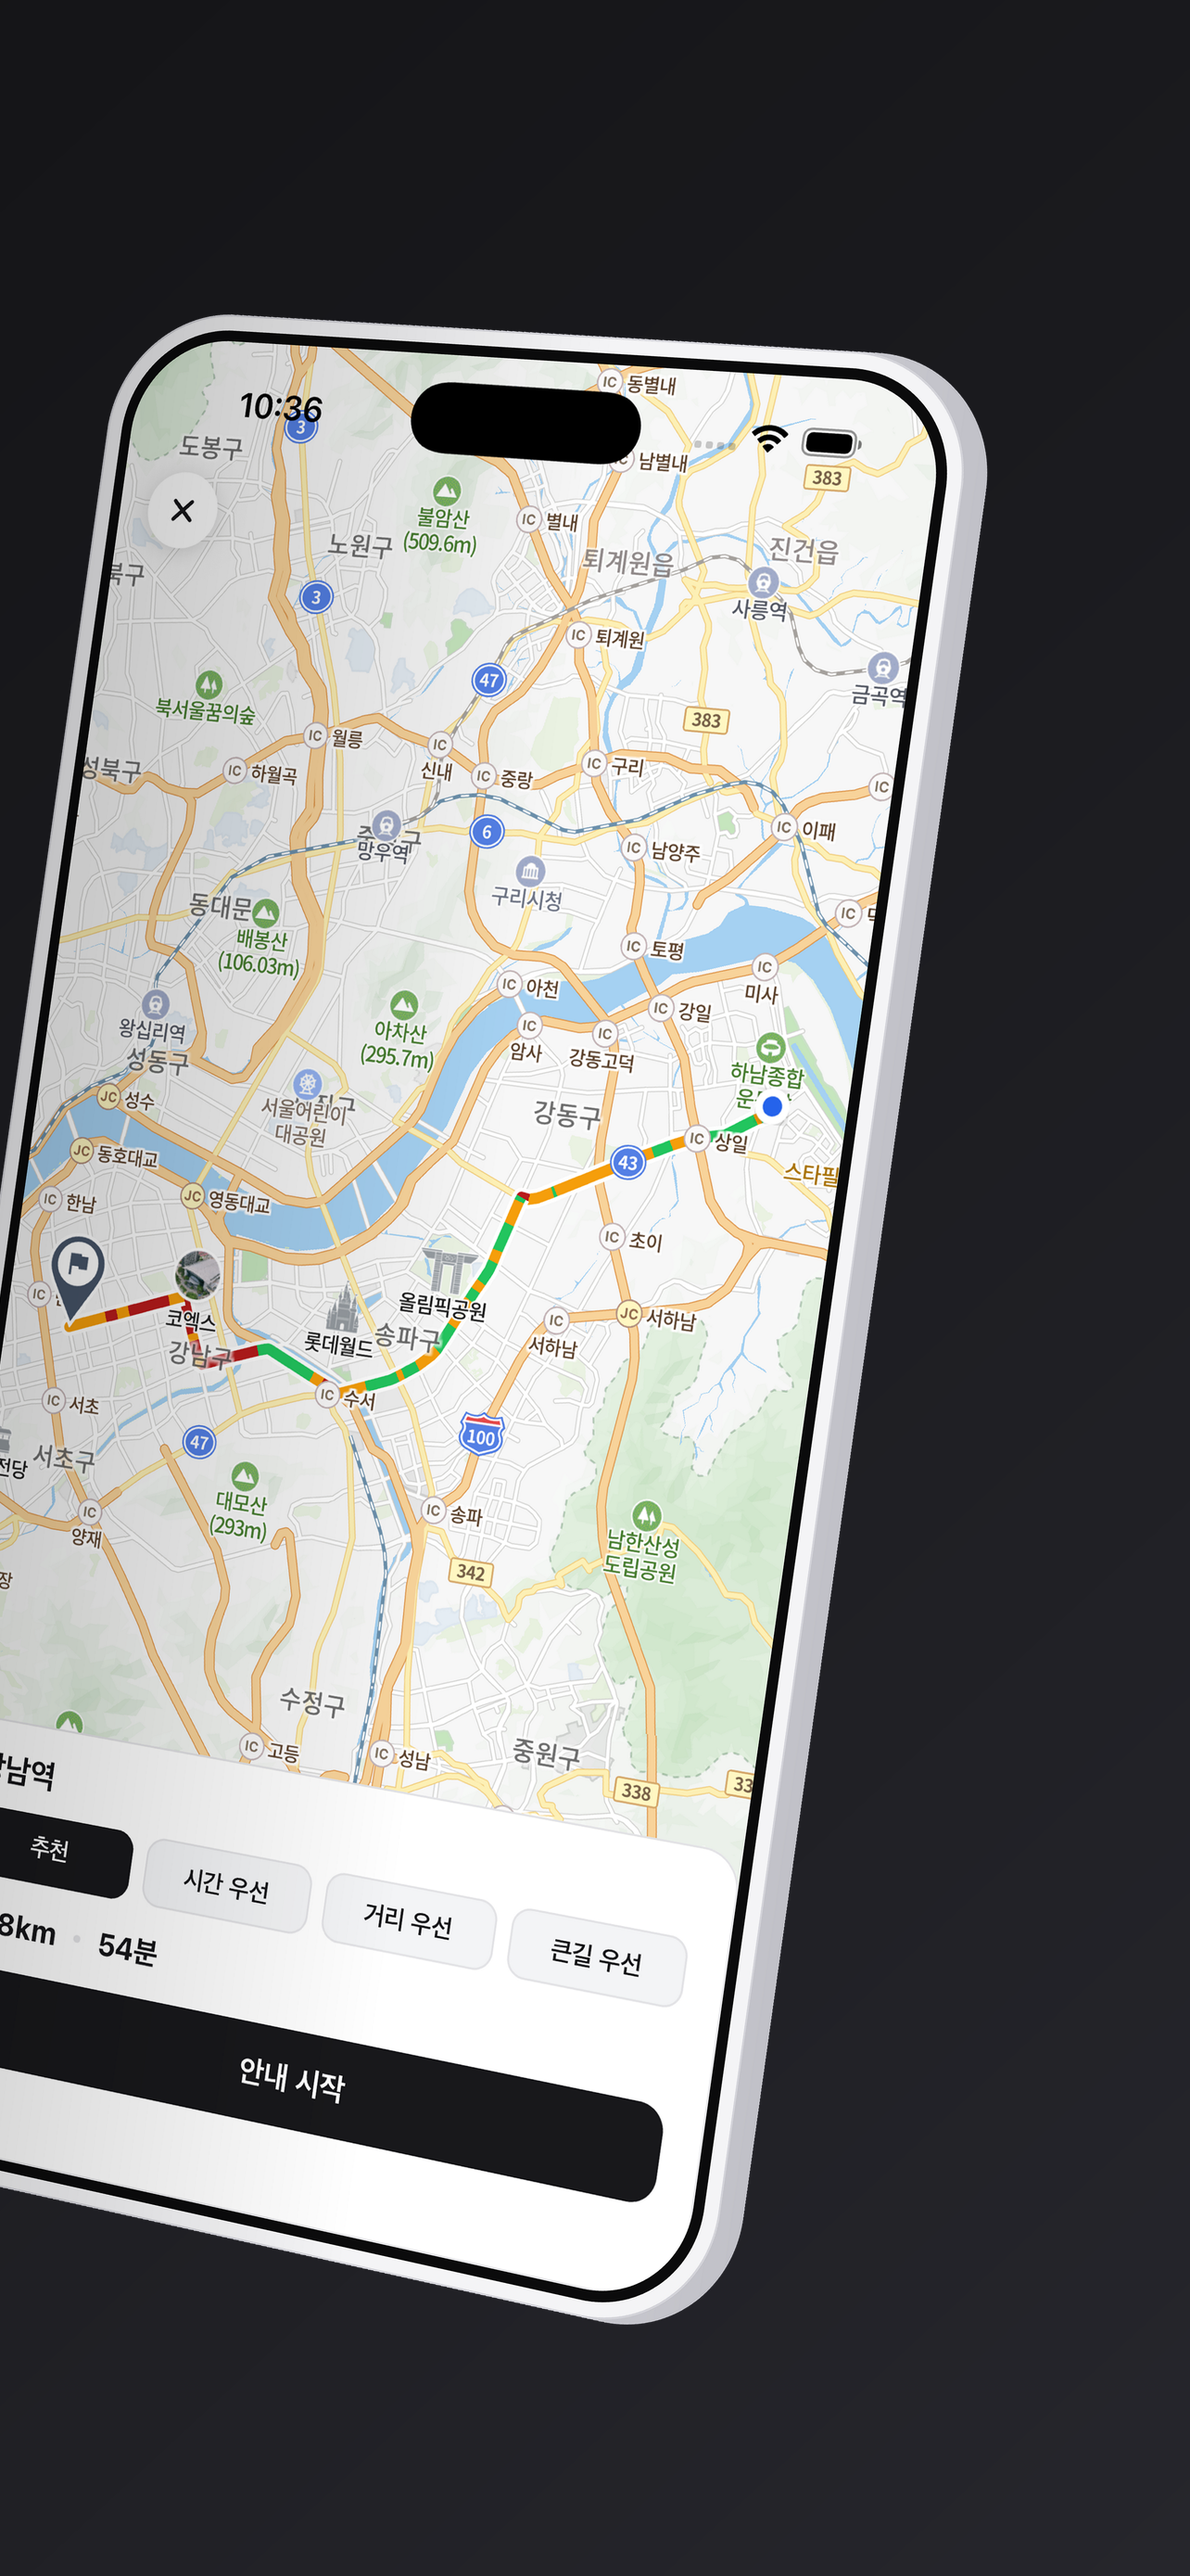
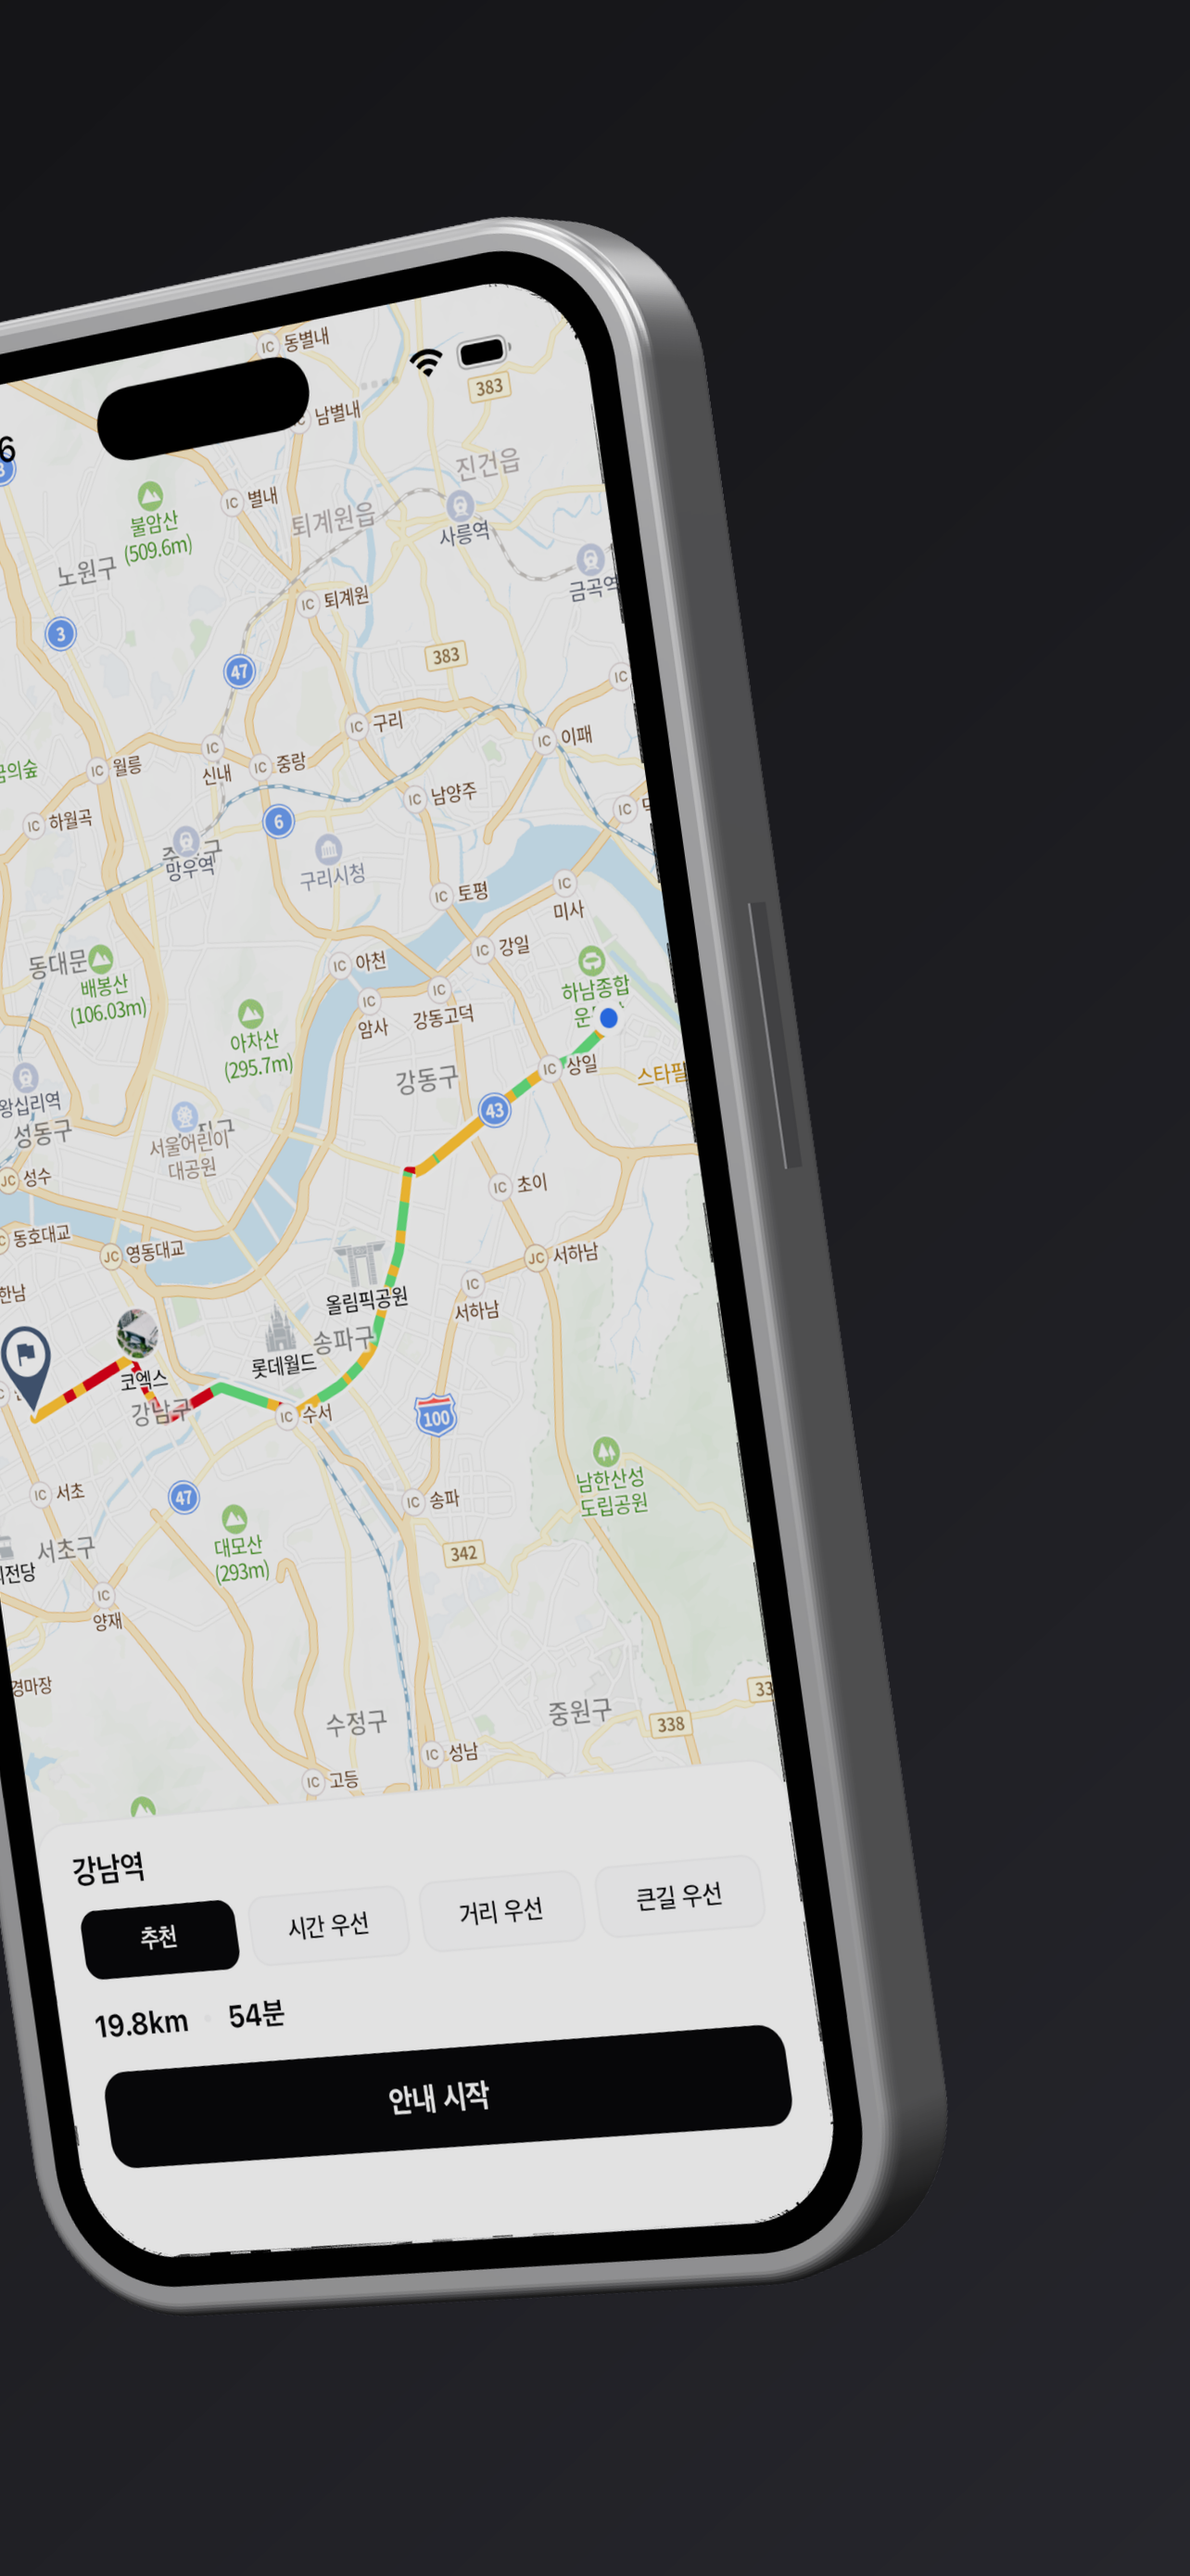
docs: photoreal 3D phone render for the hero via three.js
Replace the SVG/PIL fake with a real WebGL render — extruded white
body with beveled metal edges, side buttons, black bezel, dynamic
island, and the screenshot textured on screen, shot from ~30° so the
side thickness reads. The render page + save server live in
scripts/hero-phone-render/ (rerun to swap the screen); the composited
asset is scripts/assets/hero-phone.png.

diff --git a/scripts/hero-phone-render/render.html b/scripts/hero-phone-render/render.html
@@ -1,0 +1,117 @@
+<!doctype html>
+<meta charset="utf-8" />
+<style>body{margin:0;background:#333}canvas{width:400px!important;height:auto!important}</style>
+<div id="status">loading…</div>
+<script type="importmap">
+  { "imports": { "three": "https://unpkg.com/three@0.160.0/build/three.module.js",
+                 "three/addons/": "https://unpkg.com/three@0.160.0/examples/jsm/" } }
+</script>
+<script type="module">
+  import * as THREE from 'three';
+  import { RoomEnvironment } from 'three/addons/environments/RoomEnvironment.js';
+
+  const W = 1700, H = 3400; // 출력 캔버스 (투명 배경)
+  const status = document.getElementById('status');
+
+  // ── 지오메트리 도우미: 라운드 사각 Shape ─────────────────────────────
+  function roundedRect(w, h, r) {
+    const s = new THREE.Shape();
+    const x = -w / 2, y = -h / 2;
+    s.moveTo(x + r, y);
+    s.lineTo(x + w - r, y);
+    s.absarc(x + w - r, y + r, r, -Math.PI / 2, 0);
+    s.lineTo(x + w, y + h - r);
+    s.absarc(x + w - r, y + h - r, r, 0, Math.PI / 2);
+    s.lineTo(x + r, y + h);
+    s.absarc(x + r, y + h - r, r, Math.PI / 2, Math.PI);
+    s.lineTo(x, y + r);
+    s.absarc(x + r, y + r, r, Math.PI, Math.PI * 1.5);
+    return s;
+  }
+
+  const scene = new THREE.Scene();
+  const renderer = new THREE.WebGLRenderer({ antialias: true, alpha: true, preserveDrawingBuffer: true });
+  renderer.setSize(W, H, false);
+  renderer.toneMapping = THREE.ACESFilmicToneMapping;
+  renderer.outputColorSpace = THREE.SRGBColorSpace;
+  document.body.appendChild(renderer.domElement);
+  scene.environment = new THREE.PMREMGenerator(renderer).fromScene(new RoomEnvironment(), 0.04).texture;
+
+  // ── 폰 바디 (iPhone 15 비율, mm) ──────────────────────────────────────
+  const PW = 70.6, PH = 146.6, PD = 7.0, PR = 11;
+  const body = new THREE.Mesh(
+    new THREE.ExtrudeGeometry(roundedRect(PW, PH, PR), {
+      depth: PD, bevelEnabled: true, bevelThickness: 1.4, bevelSize: 1.2,
+      bevelSegments: 8, curveSegments: 48,
+    }),
+    new THREE.MeshStandardMaterial({ color: 0xf0f0f2, metalness: 0.75, roughness: 0.32 }),
+  );
+  body.position.z = -PD - 1.4; // 전면(베벨 끝)이 z≈0
+  scene.add(body);
+
+  const FRONT = 0.05;
+
+  // ── 블랙 베젤 (화면 둘레 링) ─────────────────────────────────────────
+  const bezelOuter = roundedRect(PW - 2.6, PH - 2.6, PR - 1.6);
+  bezelOuter.holes.push(new THREE.Path(roundedRect(PW - 7.4, PH - 7.4, PR - 3.4).getPoints(48)));
+  const bezel = new THREE.Mesh(
+    new THREE.ShapeGeometry(bezelOuter, 48),
+    new THREE.MeshBasicMaterial({ color: 0x0a0a0b }),
+  );
+  bezel.position.z = FRONT + 0.02;
+  scene.add(bezel);
+
+  // ── 화면 (스크린샷 텍스처) ───────────────────────────────────────────
+  const shotTex = await new THREE.TextureLoader().loadAsync('/shot.png');
+  shotTex.colorSpace = THREE.SRGBColorSpace;
+  shotTex.anisotropy = renderer.capabilities.getMaxAnisotropy();
+  const scrW = PW - 7.0, scrH = PH - 7.0;
+  const screen = new THREE.Mesh(
+    new THREE.ShapeGeometry(roundedRect(scrW, scrH, PR - 3.2), 48),
+    new THREE.MeshBasicMaterial({ map: shotTex }),
+  );
+  // ShapeGeometry UV 는 좌표 기반 — 화면 크기에 맞게 정규화
+  {
+    const uv = screen.geometry.attributes.uv;
+    for (let i = 0; i < uv.count; i++) {
+      uv.setXY(i, uv.getX(i) / scrW + 0.5, uv.getY(i) / scrH + 0.5);
+    }
+    uv.needsUpdate = true;
+  }
+  screen.position.z = FRONT + 0.03;
+  scene.add(screen);
+
+  // ── 다이나믹 아일랜드 ────────────────────────────────────────────────
+  const island = new THREE.Mesh(
+    new THREE.ShapeGeometry(roundedRect(11.5, 3.4, 1.7), 24),
+    new THREE.MeshBasicMaterial({ color: 0x000000 }),
+  );
+  island.position.set(0, scrH / 2 - 4.6, FRONT + 0.04);
+  scene.add(island);
+
+  // ── 측면 버튼 (오른쪽 전원, 왼쪽 음량·액션) ──────────────────────────
+  const btnMat = new THREE.MeshStandardMaterial({ color: 0xe9e9ec, metalness: 0.8, roughness: 0.3 });
+  function sideButton(x, y, len) {
+    const b = new THREE.Mesh(new THREE.BoxGeometry(1.6, len, 2.4), btnMat);
+    b.position.set(x, y, -PD / 2 - 1.4);
+    scene.add(b);
+  }
+  sideButton(PW / 2 + 0.6, 14, 19); // 전원 (오른쪽)
+  sideButton(-PW / 2 - 0.6, 25, 11); // 음량 +
+  sideButton(-PW / 2 - 0.6, 11, 11); // 음량 -
+  sideButton(-PW / 2 - 0.6, 37, 6); // 액션
+
+  // ── 카메라: 오른쪽 30도쯤 — 오른쪽 측면 두께와 전원 버튼이 뚜렷하다 ──
+  const cam = new THREE.PerspectiveCamera(16, W / H, 1, 2000);
+  cam.position.set(280, 8, 480);
+  cam.lookAt(0, 0, -PD / 2);
+
+  const key = new THREE.DirectionalLight(0xffffff, 0.7);
+  key.position.set(150, 200, 300);
+  scene.add(key, new THREE.AmbientLight(0xffffff, 0.25));
+
+  renderer.render(scene, cam);
+  status.textContent = 'rendered — saving…';
+  const r = await fetch('/save', { method: 'POST', body: renderer.domElement.toDataURL('image/png') });
+  status.textContent = 'saved: ' + (await r.text());
+</script>
